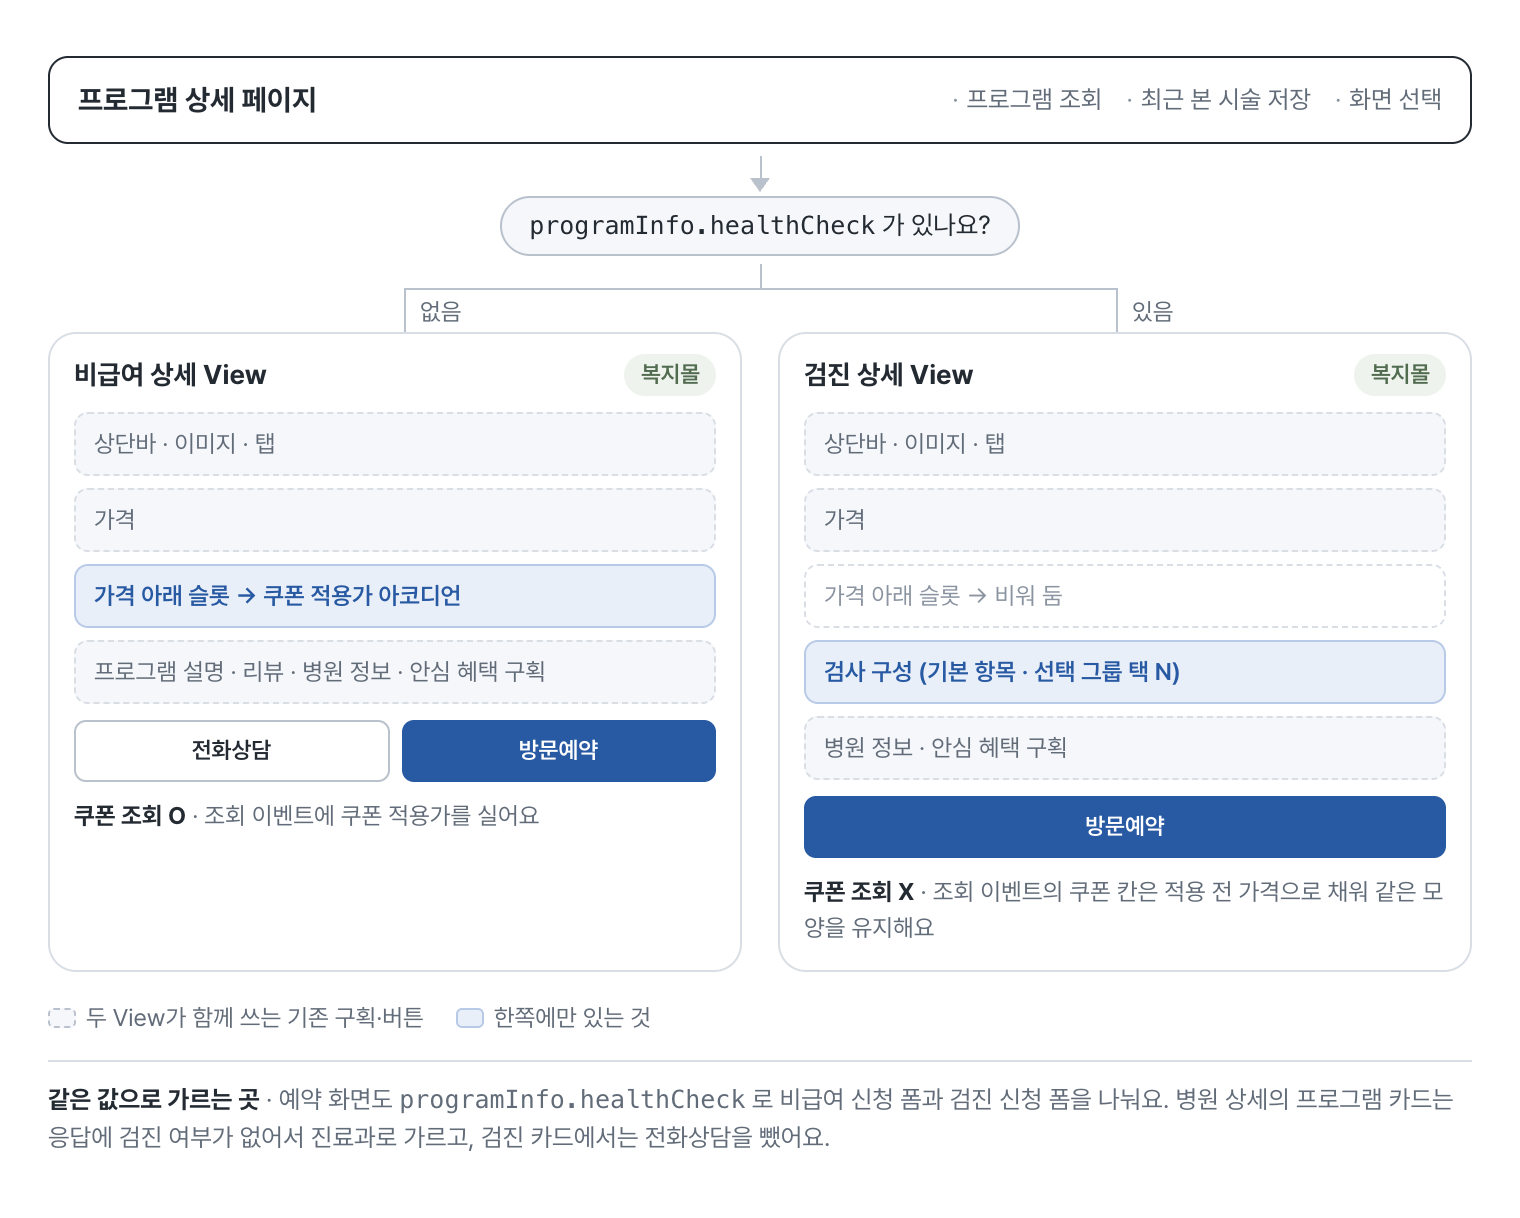
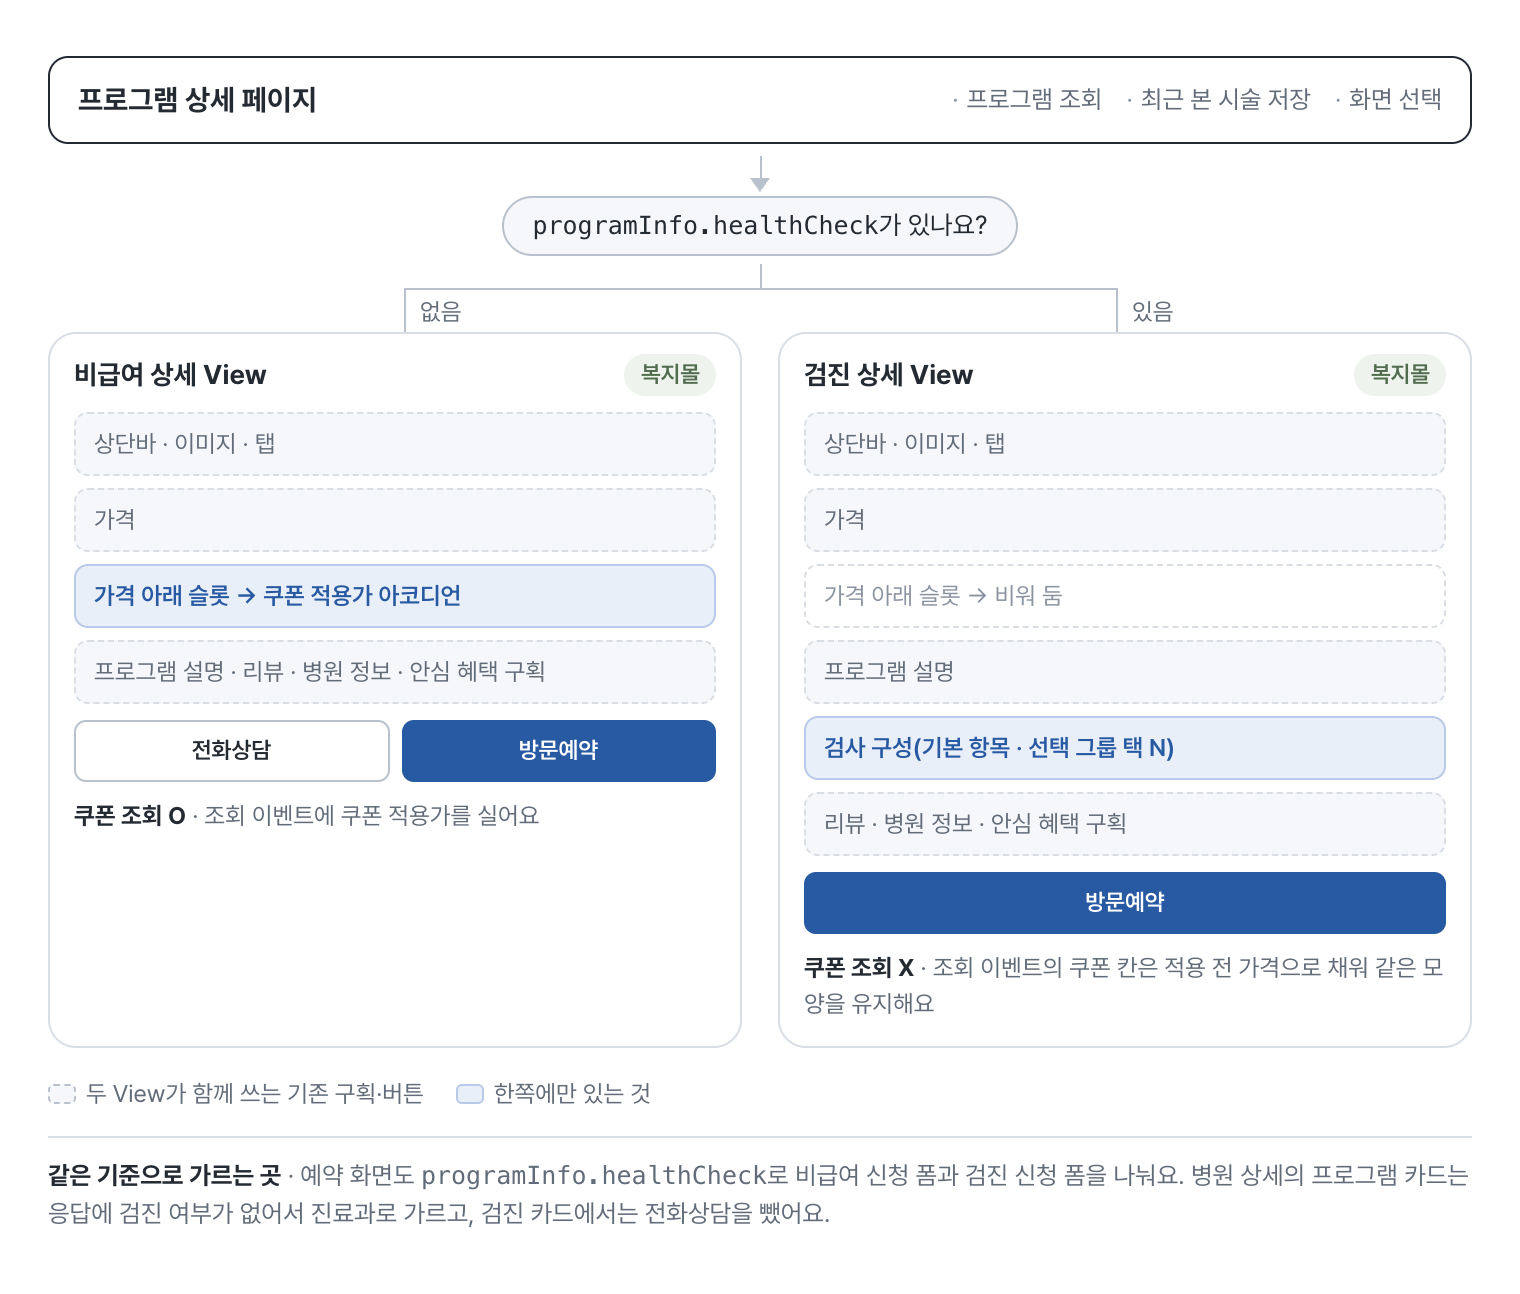
docs(blog): 건강검진 그림의 도착 화면·상세 구획·결제창 명칭·각주를 바로잡는다 (03-detail-split)

diff --git a/blog/assets/figures/health-check/src/03-detail-split.html b/blog/assets/figures/health-check/src/03-detail-split.html
@@ -41,7 +41,7 @@
   <b>프로그램 상세 페이지</b>
   <ul><li>프로그램 조회</li><li>최근 본 시술 저장</li><li>화면 선택</li></ul>
 </div>
-<div class="decide"><div class="arrow-down"></div><span class="q"><code>programInfo.healthCheck</code> 가 있나요?</span></div>
+<div class="decide"><div class="arrow-down"></div><span class="q"><code>programInfo.healthCheck</code>가 있나요?</span></div>
 <div class="split"><span class="dl"></span><span class="dr"></span><span class="l">없음</span><span class="r">있음</span></div>
 
 <div class="views">
@@ -60,8 +60,9 @@
     <div class="blk shared">상단바 · 이미지 · 탭</div>
     <div class="blk shared">가격</div>
     <div class="blk empty">가격 아래 슬롯 → 비워 둠</div>
-    <div class="blk own">검사 구성 (기본 항목 · 선택 그룹 택 N)</div>
-    <div class="blk shared">병원 정보 · 안심 혜택 구획</div>
+    <div class="blk shared">프로그램 설명</div>
+    <div class="blk own">검사 구성(기본 항목 · 선택 그룹 택 N)</div>
+    <div class="blk shared">리뷰 · 병원 정보 · 안심 혜택 구획</div>
     <div class="cta"><span class="btn primary">방문예약</span></div>
     <p class="fetch"><b>쿠폰 조회 X</b> · 조회 이벤트의 쿠폰 칸은 적용 전 가격으로 채워 같은 모양을 유지해요</p>
   </div>
@@ -72,5 +73,5 @@
   <span><span class="sw own"></span>한쪽에만 있는 것</span>
 </div>
 
-<p class="also"><b>같은 값으로 가르는 곳</b> · 예약 화면도 <code>programInfo.healthCheck</code> 로 비급여 신청 폼과 검진 신청 폼을 나눠요. 병원 상세의 프로그램 카드는 응답에 검진 여부가 없어서 진료과로 가르고, 검진 카드에서는 전화상담을 뺐어요.</p>
+<p class="also"><b>같은 기준으로 가르는 곳</b> · 예약 화면도 <code>programInfo.healthCheck</code>로 비급여 신청 폼과 검진 신청 폼을 나눠요. 병원 상세의 프로그램 카드는 응답에 검진 여부가 없어서 진료과로 가르고, 검진 카드에서는 전화상담을 뺐어요.</p>
 </body></html>
